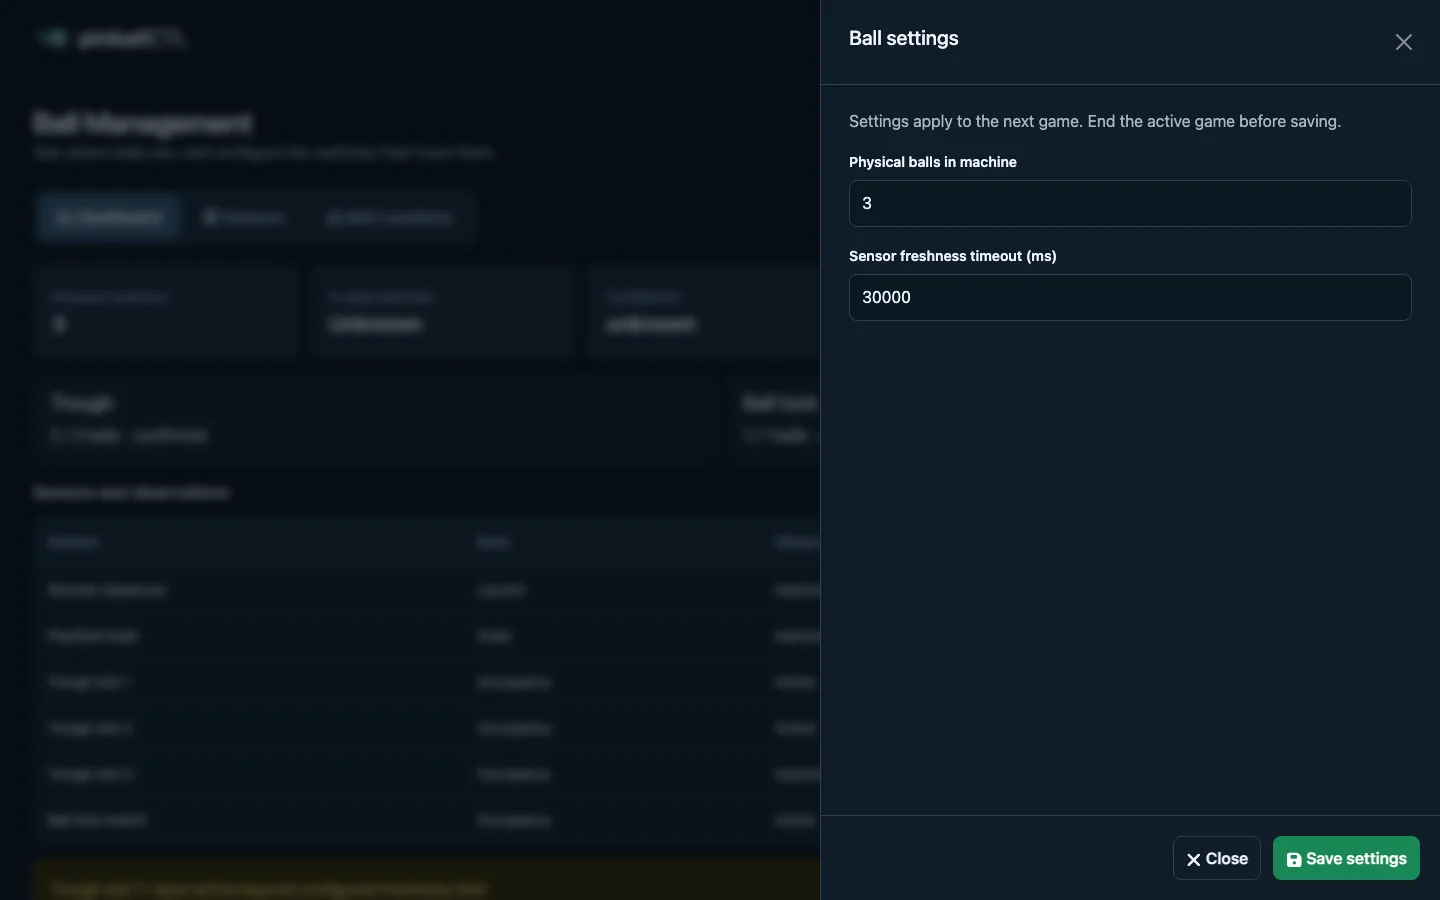
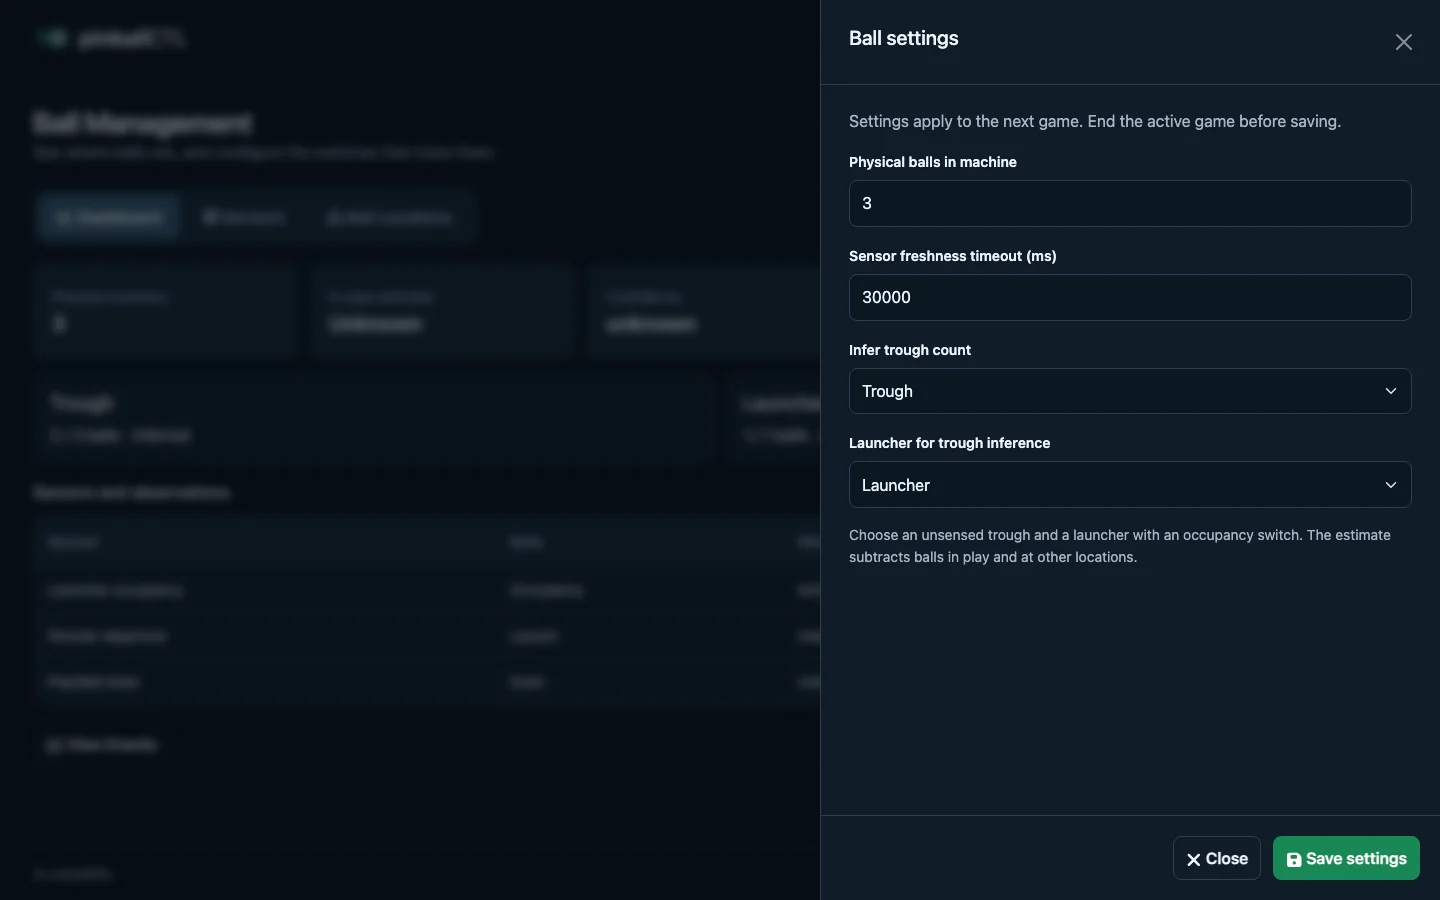
Infer ball count for an unsensed trough

diff --git a/src/pinballctl/app/modules/game/static/management.js b/src/pinballctl/app/modules/game/static/management.js
@@ -56,8 +56,11 @@
       locationStatus.replaceChildren();
       locationStatus.hidden=!view.ballConfig.devices.length;
       for(const d of view.ballConfig.devices){
-        const row=el('div',undefined,'card p-3'),observed=b.zones[d.id];
-        row.append(el('h2',locationName(d),'h5'),el('p',`${observed?.count??'Unknown'} / ${d.capacity} balls · ${observed?.confidence||'unknown'}`,'mb-0'));
+        const row=el('div',undefined,'card p-3');
+        const estimate=view.troughEstimate?.location===d.id?view.troughEstimate:null;
+        const observed=estimate||b.zones[d.id];
+        const confidence=observed?.confidence||'unknown';
+        row.append(el('h2',locationName(d),'h5'),el('p',`${observed?.count??'Unknown'} / ${d.capacity} balls · ${estimate?roleLabel(confidence):confidence}`,'mb-0'));
         const manual=b.manualLocations?.counts?.[d.id];
         if(manual!==undefined)row.append(el('p',`Manual count: ${manual}`,'small text-secondary mb-0'));
         if(d.destination)row.append(btn('Request movement',()=>command('REQUEST_BALL_MOVEMENT',{deviceId:d.id}),'btn btn-outline-secondary align-self-start mt-2','fa-chevron-right'));
@@ -89,9 +92,19 @@
     }else{
       const inventory=field(body,'Physical balls in machine',view.ballConfig.inventory,'number');
       const stale=field(body,'Sensor freshness timeout (ms)',view.ballConfig.staleMs,'number');
+      const locations=view.ballConfig.devices;
+      const trough=field(body,'Infer trough count',view.ballConfig.inferredTrough||'','text',
+        locationOptions(locations,'Off'));
+      const launcher=field(body,'Launcher for trough inference',view.ballConfig.inferredLauncher||'','text',
+        locationOptions(locations.filter(d=>d.capacity===1),'Choose a single-ball launcher…'));
+      launcher.disabled=!trough.value;
+      trough.addEventListener('change',()=>{launcher.disabled=!trough.value;});
+      body.append(el('p','Choose an unsensed trough and a launcher with an occupancy switch. The estimate subtracts balls in play and at other locations.','form-text'));
       saveButton('Save settings',cfg=>{
         cfg.inventory=Number(inventory.value);
         cfg.staleMs=Number(stale.value);
+        cfg.inferredTrough=trough.value;
+        cfg.inferredLauncher=trough.value?launcher.value:'';
       });
     }
   }
@@ -300,6 +313,9 @@
       const name=locationName(location);
       const count=sensors.filter(s=>s.zone===location.id).length;
       configRow(locationRows,[name,String(location.capacity),String(count)],name,()=>editLocation(location),cfg=>{
+        if([cfg.inferredTrough,cfg.inferredLauncher].includes(location.id)){
+          throw new Error('Turn off trough inference in Settings before removing this location.');
+        }
         if(cfg.sensors.some(s=>s.zone===location.id)||cfg.devices.some(d=>d.destination===location.id&&d.id!==location.id)){
           throw new Error('Remove this location from its sensors and movement destinations first.');
         }

diff --git a/src/pinballctl/ball/runtime.py b/src/pinballctl/ball/runtime.py
@@ -16,6 +16,68 @@ def initial():
     }
 
 
+LAUNCH_HANDOFF_MS = 500
+
+
+def infer_trough(state, config, evidence, game_status, settling, now):
+    """Display-only estimate. Keep inferred counts out of the movement safety state."""
+    trough_id = config.get("inferredTrough")
+    if not trough_id:
+        return None
+    unknown = {"location": trough_id, "count": None, "confidence": "unknown"}
+    if settling or state["pending"] or game_status in ("RECOVERY_REQUIRED", "FAULT"):
+        return unknown
+    roles = {sensor["role"] for sensor in config["sensors"]}
+    if not {"launch", "drain"} <= roles:
+        return unknown
+    in_play = state["inPlay"]
+    if in_play is None and game_status in ("IDLE", "GAME_ENDED"):
+        in_play = 0
+    if in_play is None:
+        return unknown
+    elsewhere = in_play
+    for location in config["devices"]:
+        ident = location["id"]
+        if ident == trough_id:
+            continue
+        reading = evidence[ident]
+        if (not reading["configured"] or reading["read"] != reading["configured"]
+                or reading["active"] > location["capacity"]):
+            return unknown
+        elsewhere += reading["active"]
+    handoff = state.get("troughHandoff")
+    if handoff:
+        if now - handoff["at"] > LAUNCH_HANDOFF_MS:
+            return unknown
+        # During either ordering of the edges, count the ball exactly once.
+        elsewhere += 1 if handoff["waitingFor"] == "launch" else -1
+    count = config["inventory"] - elsewhere
+    capacity = next(d["capacity"] for d in config["devices"] if d["id"] == trough_id)
+    if elsewhere < 0 or not 0 <= count <= capacity:
+        return unknown
+    return {"location": trough_id, "count": count, "confidence": "inferred"}
+
+
+def update_trough_handoff(state, config, role, zone, prior, count, now):
+    if not config.get("inferredTrough"):
+        return
+    launcher = config["inferredLauncher"]
+    handoff = state.get("troughHandoff", {})
+    if role == "launch":
+        if handoff.get("waitingFor") == "launch":
+            state.pop("troughHandoff", None)
+        elif state["zones"].get(launcher, {}).get("count") == 1:
+            state["troughHandoff"] = {"waitingFor": "clear", "at": now}
+    elif role == "occupancy" and zone == launcher:
+        if count == 1:
+            state.pop("troughHandoff", None)
+        elif prior == 1 and count == 0:
+            if handoff.get("waitingFor") == "clear":
+                state.pop("troughHandoff", None)
+            else:
+                state["troughHandoff"] = {"waitingFor": "launch", "at": now}
+
+
 def observe(state, config, sensor, active, now, event, *, track_play=True):
     mappings = [m for m in config.get("sensors", []) if m["source"] == sensor]
     if not mappings:
@@ -47,6 +109,7 @@ def observe(state, config, sensor, active, now, event, *, track_play=True):
             state["inPlay"] = (state["inPlay"] or 0) + 1
             state["confidence"] = "inferred"
             state["reason"] = "Shooter departure observed; destination inferred"
+            update_trough_handoff(state, config, role, zone, None, None, now)
             event("BALL_LAUNCHED", {"sensor": sensor})
             result = "launch"
         elif role == "drain":
@@ -86,6 +149,7 @@ def observe(state, config, sensor, active, now, event, *, track_play=True):
                 confidence = "confirmed" if known else "unknown"
             observed_at = min(state["sensors"][m["source"]]["at"] for m in sensors) if confidence == "confirmed" else now
             state["zones"][zone] = {"count": count, "confidence": confidence, "at": observed_at}
+            update_trough_handoff(state, config, role, zone, prior, count, now)
             result = "observation"
         else:
             continue

diff --git a/src/pinballctl/game/runtime.py b/src/pinballctl/game/runtime.py
@@ -25,7 +25,10 @@ GAME_DEFAULTS = {
     "coinInputs": [],
 }
 BOOT_SETTLE_SECONDS = 6
-BALL_DEFAULTS = {"inventory": 1, "sensors": [], "devices": [], "staleMs": 30000}
+BALL_DEFAULTS = {
+    "inventory": 1, "sensors": [], "devices": [], "staleMs": 30000,
+    "inferredTrough": "", "inferredLauncher": "",
+}
 
 
 def initial():
@@ -117,13 +120,17 @@ def snapshot_db(db):
     ball = store.read(db, "ball", balls.initial())
     config = store.read(db, "gameConfig", GAME_DEFAULTS)
     ball_config = store.read(db, "ballConfig", BALL_DEFAULTS)
+    settling = settling_seconds(db)
+    now = now_ms()
+    evidence = location_evidence(ball, ball_config, now)
     return {
         "game": game,
         "ball": ball,
-        "settlingSeconds": settling_seconds(db),
+        "settlingSeconds": settling,
         "gameConfig": config,
         "ballConfig": ball_config,
-        "locationEvidence": location_evidence(ball, ball_config, now_ms()),
+        "locationEvidence": evidence,
+        "troughEstimate": balls.infer_trough(ball, ball_config, evidence, game["status"], settling, now),
         "scores": store.read(db, "scores", {}),
         "registry": registry.contract(),
         "timeline": [
@@ -276,6 +283,17 @@ def validate_config(kind, values):
                 and 0 <= s.get("debounceMs", 50) <= 5000,
                 "Invalid debounce",
             )
+        trough, launcher = cfg["inferredTrough"], cfg["inferredLauncher"]
+        check(isinstance(trough, str) and isinstance(launcher, str), "Invalid trough inference locations")
+        if trough:
+            check(trough in ids and launcher in ids and trough != launcher,
+                  "Choose separate trough and launcher locations")
+            check(next(d["capacity"] for d in cfg["devices"] if d["id"] == launcher) == 1,
+                  "The inferred trough setup requires a single-ball launcher")
+            check(not any(sensor["role"] == "occupancy" and sensor.get("zone") == trough
+                          for sensor in cfg["sensors"]), "Use sensor counts for a trough with occupancy switches")
+        else:
+            cfg["inferredLauncher"] = ""
     return cfg
 
 
@@ -292,6 +310,7 @@ def configure(instance, kind, values):
         if kind == "ball" and cfg != store.read(db, "ballConfig", BALL_DEFAULTS):
             ball = store.read(db, "ball", balls.initial())
             ball.pop("manualLocations", None)
+            ball.pop("troughHandoff", None)
             store.write(db, "ball", ball)
         store.write(db, kind + "Config", cfg)
     return cfg
@@ -577,6 +596,7 @@ def execute(
                     reason="Operator accounted for all balls by location",
                     manualLocations={"counts": counts, "at": now, "mismatches": mismatches},
                 )
+                ball.pop("troughHandoff", None)
                 _event(db, game, "BALL_LOCATIONS_RESET", {"counts": counts, "mismatches": mismatches}, delivered=True)
             elif command == "RECONCILE":
                 check(authority == "operator", "Only the operator can reconcile")
@@ -610,6 +630,7 @@ def execute(
             elif command == "RECOVER":
                 check(authority == "internal", "Recovery requires internal authority")
                 store.write(db, "ingressClock", {})
+                ball.pop("troughHandoff", None)
                 if game["status"] not in ("IDLE", "GAME_ENDED"):
                     if game["status"] in ("PREPARING", "BALL_ACTIVE"):
                         game["resumeStatus"] = game["status"]

diff --git a/tests/test_game_management.py b/tests/test_game_management.py
@@ -170,6 +170,59 @@ class GameManagerTests(unittest.TestCase):
         self.assertNotIn("BALL_LOCATIONS_RESET", [call.args[0] for call in bus.return_value.emit.call_args_list])
         self.assertNotIn("BALL_LOCATIONS_RESET", [call.kwargs["name"] for call in apply_rules.call_args_list])
 
+    def test_inferred_trough_tracks_both_launcher_handoff_orders(self):
+        from unittest.mock import patch
+
+        game.configure(self.root, "ball", {
+            "inventory": 3,
+            "inferredTrough": "trough",
+            "inferredLauncher": "shooter",
+            "devices": [{"id": "trough", "capacity": 3}, {"id": "shooter", "capacity": 1}],
+            "sensors": [
+                {"source": "lane", "role": "occupancy", "zone": "shooter", "debounceMs": 0},
+                {"source": "launch", "role": "launch", "debounceMs": 0},
+                {"source": "drain", "role": "drain", "debounceMs": 0},
+            ],
+        })
+
+        def estimate(count):
+            view = game.snapshot(self.root)
+            self.assertEqual(view["troughEstimate"], {
+                "location": "trough", "count": count,
+                "confidence": "unknown" if count is None else "inferred",
+            })
+            self.assertNotIn("trough", view["ball"]["zones"])
+
+        now = 1000
+        with patch.object(game, "now_ms", side_effect=lambda: now):
+            estimate(None)
+            self.sensor("lane", False)
+            estimate(3)
+            self.credit()
+            self.command("REQUEST_START_GAME")
+            self.sensor("lane")
+            estimate(2)
+            self.sensor("lane", False)
+            estimate(2)
+            now += 501
+            estimate(None)
+            self.sensor("launch")
+            estimate(2)
+            self.sensor("drain")
+            estimate(3)
+
+            self.sensor("launch", False)
+            self.sensor("drain", False)
+            self.sensor("lane")
+            self.sensor("launch")
+            estimate(2)
+            self.sensor("lane", False)
+            estimate(2)
+            self.sensor("drain")
+            estimate(3)
+            now += 30001
+            estimate(None)
+
     def test_denominations_and_trust(self):
         self.assertFalse(
             self.command("REQUEST_AWARD_CREDIT", {"units": 100}, authority="rules")[

diff --git a/src/pinballctl/backup/service.py b/src/pinballctl/backup/service.py
@@ -363,6 +363,7 @@ def prepare(instance, sequence, clear_others, stage):
                 if game.get('status') in ('PREPARING','BALL_ACTIVE'):game['resumeStatus']=game['status']
                 game.update(status='RECOVERY_REQUIRED',reason='Backup restored; reconcile physical balls before resuming')
             ball.pop('manualLocations',None)
+            ball.pop('troughHandoff',None)
             ball.update(inPlay=None,confidence='unknown',pending=[],sensors={},zones={},reason='Physical observations are invalid after restore')
             manager_store.write(database,'game',game);manager_store.write(database,'ball',ball)
             database.execute('DELETE FROM commands');database.execute('DELETE FROM outbox');database.execute('DELETE FROM receipts');database.execute('DELETE FROM ingress');manager_store.write(database,'ingressClock',{})

diff --git a/docs/docs/1-user-guide/27-ball-management.md b/docs/docs/1-user-guide/27-ball-management.md
@@ -23,7 +23,7 @@ Ball Management records physical observations and expected movements. Game Manag
 
 In **Settings**, set the number of physical balls. In **Sensors**, add the shooter-departure switch as **Launch** and the drain switch as **Drain**. Leave **Ball location** blank for those two switches. Set each switch’s active level and debounce interval. Save while no game is running, then **Sync Rules** to deploy the sensor watches.
 
-<img src="./media/screenshot-feature-ball-settings.webp" data-source='{"url": "/login", "dark_mode": true, "settle_ms": 800, "click": [{"action": "type", "selector": "input[name=\"username\"]"}, {"action": "type", "selector": "input[name=\"password\"]"}, {"action": "click", "selector": "button[type=\"submit\"]", "wait_for": "[data-menu-toggle]"}], "next_url": "/ball/", "next_click": [{"action": "click", "selector": "#manager-config", "wait_for": "#manager-drawer.show"}]}' alt="Ball settings panel with physical ball inventory and sensor freshness timeout" style="width:100%;height:auto;">
+<img src="./media/screenshot-feature-ball-settings.webp" data-source='{"url": "/login", "dark_mode": true, "settle_ms": 800, "click": [{"action": "type", "selector": "input[name=\"username\"]"}, {"action": "type", "selector": "input[name=\"password\"]"}, {"action": "click", "selector": "button[type=\"submit\"]", "wait_for": "[data-menu-toggle]"}], "next_url": "/ball/", "next_click": [{"action": "click", "selector": "#manager-config", "wait_for": "#manager-drawer.show"}]}' alt="Ball settings panel with physical inventory, sensor freshness, and trough inference options" style="width:100%;height:auto;">
 
 Shooter departure adds one to the in-play estimate. Drain removes one when a corresponding estimate exists. Unknown is never treated as zero. The page shows configured physical inventory, inferred in-play count, confidence, sensor levels, last observations and pending movements. Live View and Playfield also show the published manager summary; Media overlays read the current player, ball and credits from Game Management.
 
@@ -49,6 +49,16 @@ Use **Movement and release options** in the location’s side panel to configure
 A requested movement requires active gameplay, fresh confirmed occupancy, a configured destination and no existing movement from that device. Matching destination observations confirm the movement; timeout makes state uncertain and requires recovery. No retry/search sequence fires automatically.
 
 An optional mapped release output and bounded pulse (1–250 ms) can be configured per device. **Request movement** records the expectation, then the existing bridge/ESP safety path sends one pulse request using a fresh firmware timestamp. ESP arming, stale-command, recovery and coil limits still apply. Missing clock support, rejected commands or uncertain delivery enter recovery. A durable send receipt prevents replay after a crash; an uncertain send may therefore be lost, rather than fired twice. Inspect the machine before deliberately requesting a new movement.
+
+## Infer an unsensed trough count
+
+For a simple table, map the playfield entry switch as **Launch**, the drain passage switch as **Drain**, and the shooter lane switch as **Occupancy** on a single-ball launcher location. Create a separate trough location with its real capacity. In **Settings**, select that trough under **Infer trough count**, then choose the launcher.
+
+The dashboard subtracts the balls in play and those detected at other locations from the configured physical inventory. With three balls configured, the estimated trough count goes from three to two when the launcher fills. It stays at two as the ball enters play and returns to three when the ball drains.
+
+<img src="./media/screenshot-feature-ball-inferred-trough.webp" data-source='{"url": "/login", "dark_mode": true, "settle_ms": 800, "click": [{"action": "type", "selector": "input[name=\"username\"]"}, {"action": "type", "selector": "input[name=\"password\"]"}, {"action": "click", "selector": "button[type=\"submit\"]", "wait_for": "[data-menu-toggle]"}], "next_url": "/ball/"}' alt="Ball dashboard showing an inferred count of two in the trough and one confirmed in the launcher" style="width:100%;height:auto;">
+
+The estimate allows half a second between the launcher switch clearing and the launch switch reporting, in either order. It shows **Unknown** if the second switch does not report in time, required location readings are missing or stale, or the total falls outside the trough capacity. Once startup settling is over, an idle machine with no in-play estimate is treated as having zero in play for this calculation. A stuck ball can still make an inferred count wrong. Coil release still requires confirmed sensor evidence.
 
 ## Reset ball locations
 
